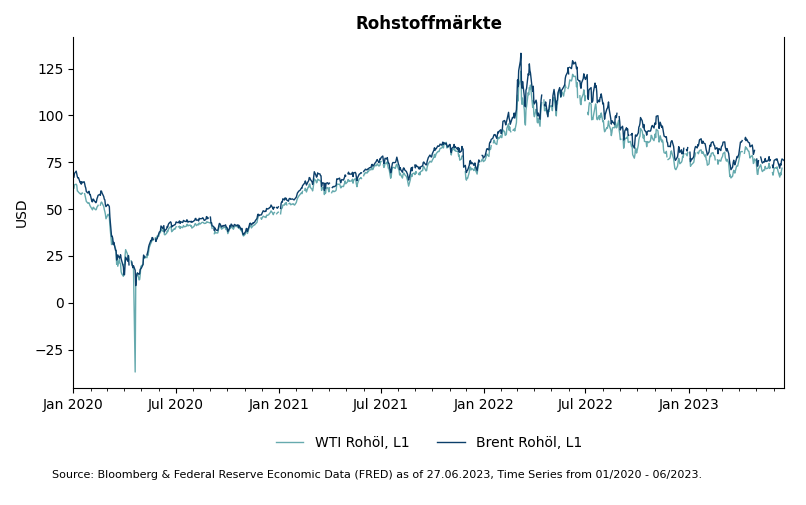
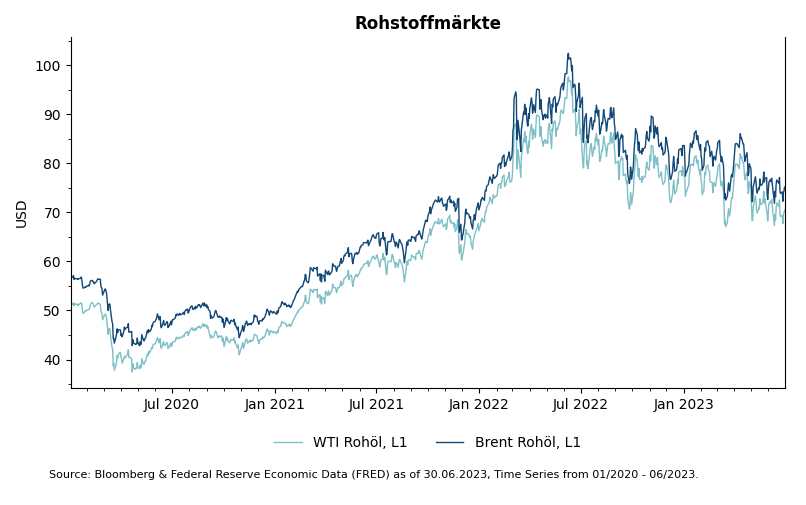
add some new charts for fi monatsmappe

diff --git a/examples/presentation/volatility/volatility.py b/examples/presentation/volatility/volatility.py
@@ -3,7 +3,8 @@ import matplotlib.dates as mdates
 from examples import fred, blp
 
 if __name__ == '__main__':
-    d1, t1 = fred.get_series(series_id='VIXCLS', observation_start="2022-06-01")
+    d1, t1 = fred.get_series(series_id='VIXCLS', observation_start="2022-01-01")
+    d2, t2 = blp.get_series(series_id='V2X Index', observation_start="20220101")
 
     chart = TimeSeriesChart(title="Volatilitätsmärkte", num_y_axes=1)
 
@@ -15,8 +16,29 @@ if __name__ == '__main__':
     major_formatter = mdates.DateFormatter("%b %Y")
     chart.configure_x_axis(major_formatter=major_formatter, minor_locator=minor_locator, major_locator=major_locator)
 
-    chart.add_data(x=d1.index, y=d1['y'], label=t1, y_axis=0)
+    chart.add_data(x=d1.index, y=d1['y'], label="Implizite Volatilität S&P 500", y_axis=0)
+    chart.add_data(x=d2.index, y=d2['y'], label="Implizite Volatilität Eurostoxx 50", y_axis=0)
 
-    chart.legend(frameon=False, ncol=1)
+    chart.legend(frameon=False, ncol=2)
 
     chart.plot(path="vix_v2x.png")
+
+    ###
+
+    d1, t1 = blp.get_series(series_id='MOVE Index', observation_start="20220101")
+
+    chart = TimeSeriesChart(title="Implizite Volatilität US Staatsanleihen", num_y_axes=1)
+
+    chart.configure_y_axis(axis_index=0, label="%", y_lim=(50, 210))
+
+    major_locator = mdates.MonthLocator(interval=3)
+    minor_locator = mdates.MonthLocator(interval=1)
+
+    major_formatter = mdates.DateFormatter("%b %Y")
+    chart.configure_x_axis(major_formatter=major_formatter, minor_locator=minor_locator, major_locator=major_locator)
+
+    chart.add_data(x=d1.index, y=d1['y'], label=t1, y_axis=0)
+
+    chart.legend(frameon=False, ncol=2)
+
+    chart.plot(path="move.png")

diff --git a/examples/presentation/commodities/comdty_index.py b/examples/presentation/commodities/comdty_index.py
@@ -1,0 +1,23 @@
+from matplotlib.ticker import MultipleLocator
+
+from charting.charts.time_series_chart import TimeSeriesChart
+import matplotlib.dates as mdates
+from examples import fred, blp
+
+if __name__ == '__main__':
+    d1, t1 = blp.get_series(series_id='BCOMEUTR Index', observation_start="20170101")
+
+    chart = TimeSeriesChart(title="Rohstoff Index", num_y_axes=1)
+
+    chart.configure_y_axis(axis_index=0, label="EUR", minor_locator=MultipleLocator(20), major_locator=MultipleLocator(40))
+
+    major_locator = mdates.MonthLocator(interval=6)
+    minor_locator = mdates.MonthLocator(interval=1)
+
+    major_formatter = mdates.DateFormatter("%Y")
+    chart.configure_x_axis(major_formatter=major_formatter, minor_locator=minor_locator, major_locator=major_locator)
+
+    chart.add_data(x=d1.index, y=d1['y'], label=t1, y_axis=0)
+    chart.legend(frameon=False, ncol=1)
+
+    chart.plot(path="comdty_index.png")

diff --git a/examples/presentation/commodities/gold.py b/examples/presentation/commodities/gold.py
@@ -1,0 +1,23 @@
+from matplotlib.ticker import MultipleLocator
+
+from charting.charts.time_series_chart import TimeSeriesChart
+import matplotlib.dates as mdates
+from examples import fred, blp
+
+if __name__ == '__main__':
+    d1, t1 = blp.get_series(series_id='XAU Curncy', observation_start="20170101")
+
+    chart = TimeSeriesChart(title="Gold", num_y_axes=1)
+
+    chart.configure_y_axis(axis_index=0, label="USD", minor_locator=MultipleLocator(100), major_locator=MultipleLocator(200))
+
+    major_locator = mdates.MonthLocator(interval=6)
+    minor_locator = mdates.MonthLocator(interval=1)
+
+    major_formatter = mdates.DateFormatter("%Y")
+    chart.configure_x_axis(major_formatter=major_formatter, minor_locator=minor_locator, major_locator=major_locator)
+
+    chart.add_data(x=d1.index, y=d1['y'], label=t1, y_axis=0)
+    chart.legend(frameon=False, ncol=1)
+
+    chart.plot(path="gold.png")

diff --git a/examples/presentation/commodities/oil.py b/examples/presentation/commodities/oil.py
@@ -1,14 +1,16 @@
+from matplotlib.ticker import MultipleLocator
+
 from charting.charts.time_series_chart import TimeSeriesChart
 import matplotlib.dates as mdates
 from examples import fred, blp
 
 if __name__ == '__main__':
-    d1, t1 = fred.get_series(series_id='DCOILWTICO', observation_start="2020-01-01")
-    d2, t2 = fred.get_series(series_id='DCOILBRENTEU', observation_start="2020-01-01")
+    d1, t1 = blp.get_series(series_id='CLA Comdty', observation_start="20200101")
+    d2, t2 = blp.get_series(series_id='COA Comdty', observation_start="20200101")
 
     chart = TimeSeriesChart(title="Rohstoffmärkte", num_y_axes=1)
 
-    chart.configure_y_axis(axis_index=0, label="USD")
+    chart.configure_y_axis(axis_index=0, label="USD", minor_locator=MultipleLocator(5))
 
     major_locator = mdates.MonthLocator(interval=6)
     minor_locator = mdates.MonthLocator(interval=1)

diff --git a/examples/presentation/commodities/silver.py b/examples/presentation/commodities/silver.py
@@ -1,0 +1,21 @@
+from charting.charts.time_series_chart import TimeSeriesChart
+import matplotlib.dates as mdates
+from examples import fred, blp
+
+if __name__ == '__main__':
+    d1, t1 = blp.get_series(series_id='XAG Curncy', observation_start="20170101")
+
+    chart = TimeSeriesChart(title="Silber", num_y_axes=1)
+
+    chart.configure_y_axis(axis_index=0, label="USD")
+
+    major_locator = mdates.MonthLocator(interval=6)
+    minor_locator = mdates.MonthLocator(interval=1)
+
+    major_formatter = mdates.DateFormatter("%Y")
+    chart.configure_x_axis(major_formatter=major_formatter, minor_locator=minor_locator, major_locator=major_locator)
+
+    chart.add_data(x=d1.index, y=d1['y'], label=t1, y_axis=0)
+    chart.legend(frameon=False, ncol=1)
+
+    chart.plot(path="silver.png")
